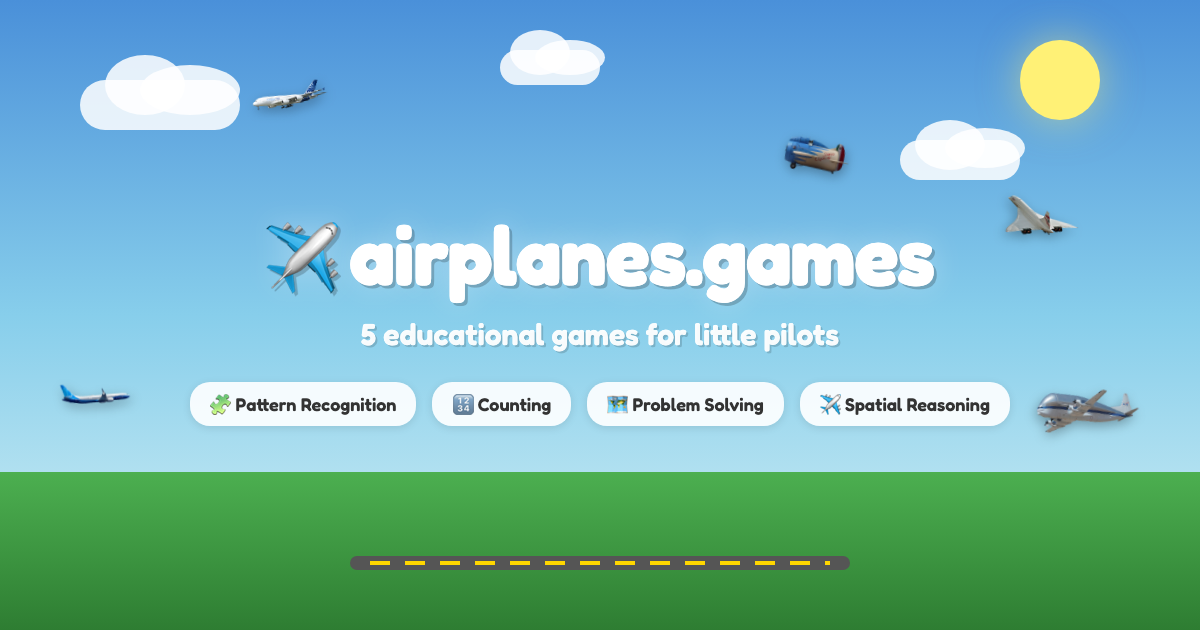
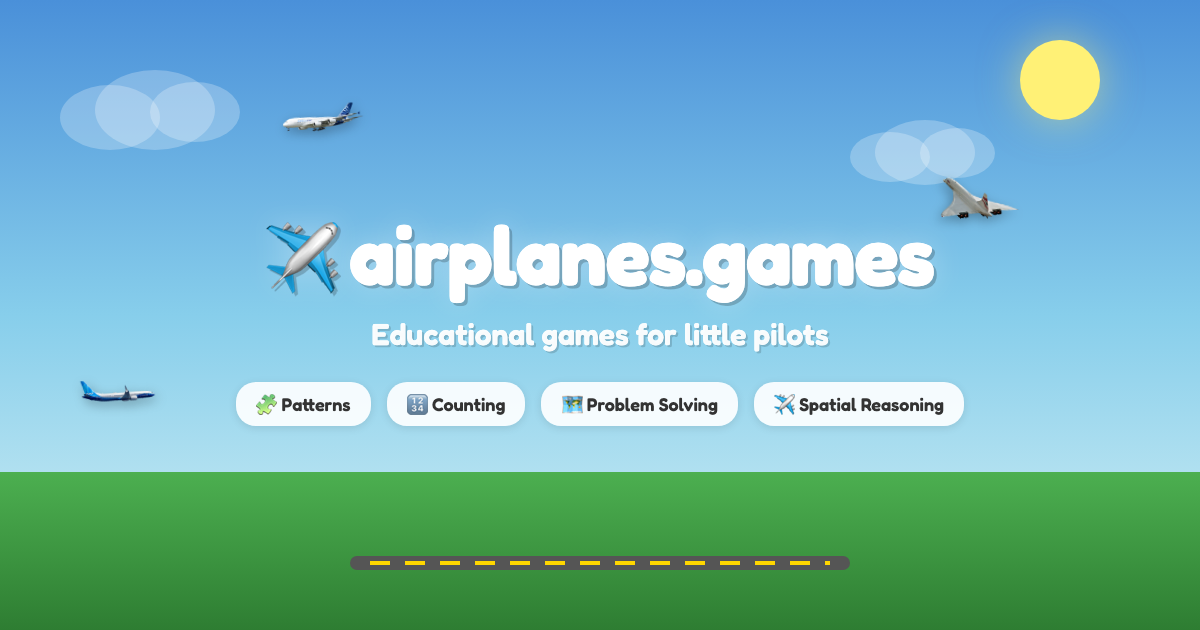
Remove game count from OG image + README, add repo topics

diff --git a/README.md b/README.md
@@ -1,6 +1,6 @@
 # ✈️ airplanes.games
 
-Playful learning for future pilots. 5 educational games designed for ages 3–5 that build pattern recognition, logic, spatial reasoning, counting, and problem-solving skills — all through airplanes.
+Playful learning for future pilots. Educational games designed for ages 3–5 that build pattern recognition, logic, spatial reasoning, counting, and problem-solving skills — all through airplanes.
 
 ## Games
 